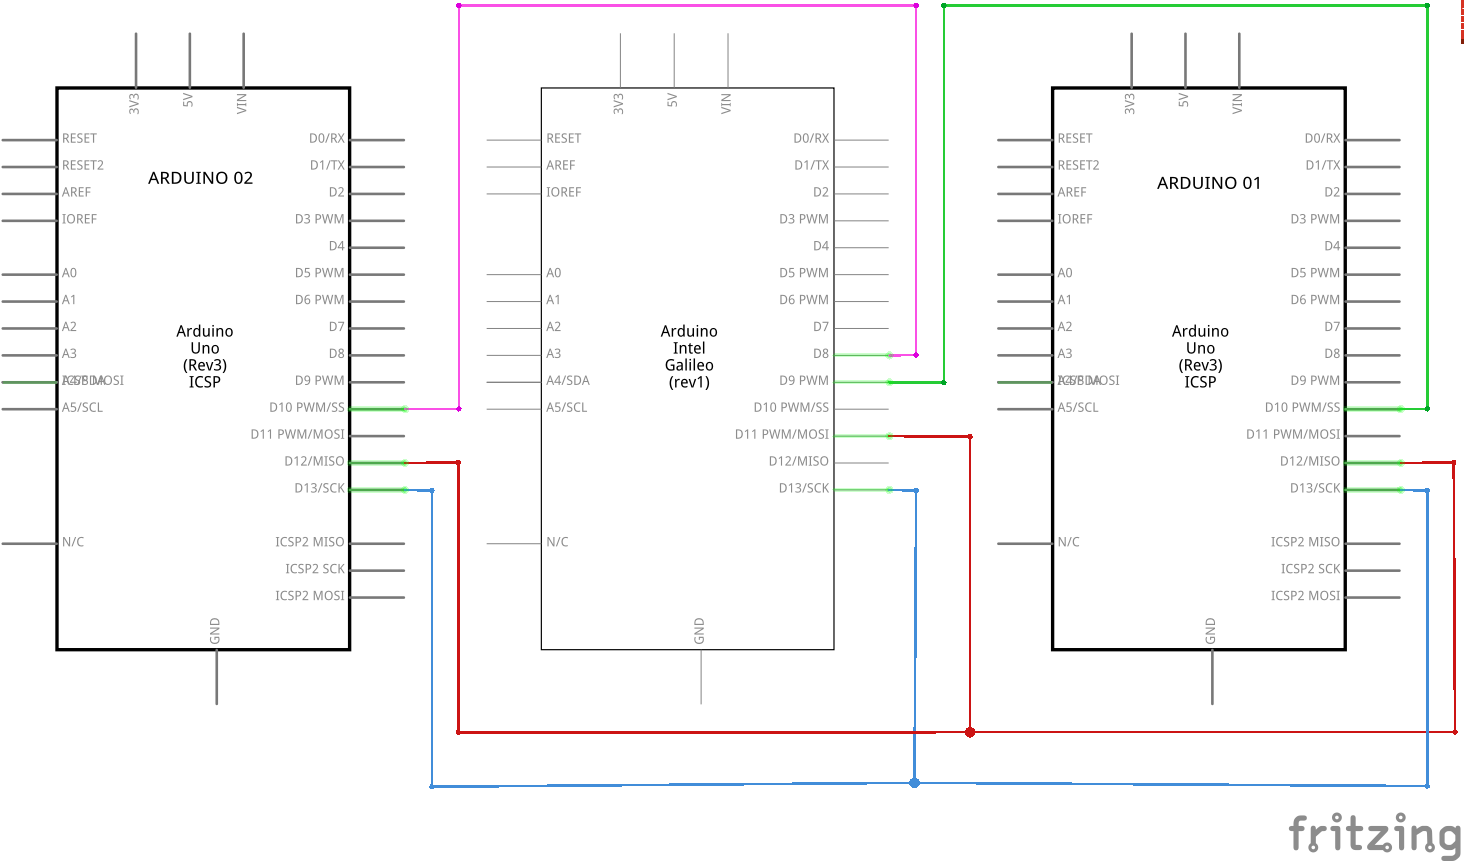
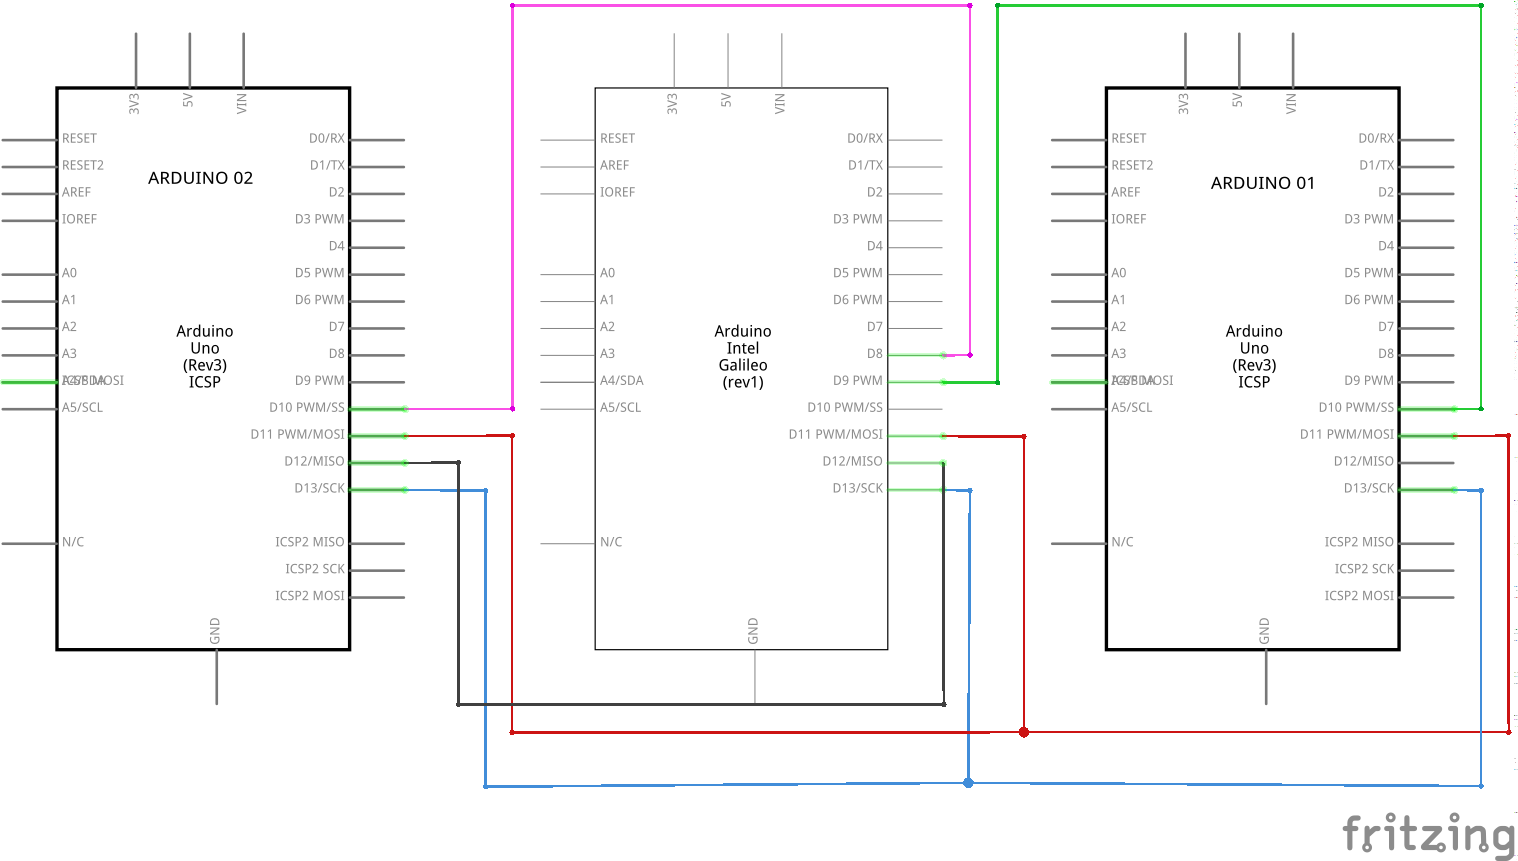
Corrige esquematico e programas questao3

diff --git a/prova2/questao3.py b/prova2/questao3.py
@@ -1,0 +1,31 @@
+import mraa
+import time
+
+spi = mraa.Spi(0)
+
+# Arduino 01
+ss1 = mraa.Gpio(8)
+ss1.dir(mraa.DIR_OUT)
+
+# Arduino 02
+ss2 = mraa.Gpio(9)
+ss2.dir(mraa.DIR_OUT)
+
+while True:
+	print "Enviando 1..."
+	ss1.write(0) # Informa o slave 1 que vai enviar dados 
+	time.sleep(0.01)
+	received = spi.writeByte(1) # Envia um byte ao barramento
+	print "Recebendo " + str(received) + "..."
+	ss1.write(1) # Encerra recebimento do slave
+
+	time.sleep(2)
+
+	print "Enviando 2..."
+	ss2.write(0) # Informa o slave 2 que vai enviar dados 
+	time.sleep(0.01)
+	received = spi.writeByte(3) # Envia um byte ao barramento
+	print "Recebendo " + str(received) + "..."
+	ss2.write(1) # Encerra recebimento do slave
+
+	time.sleep(2)
